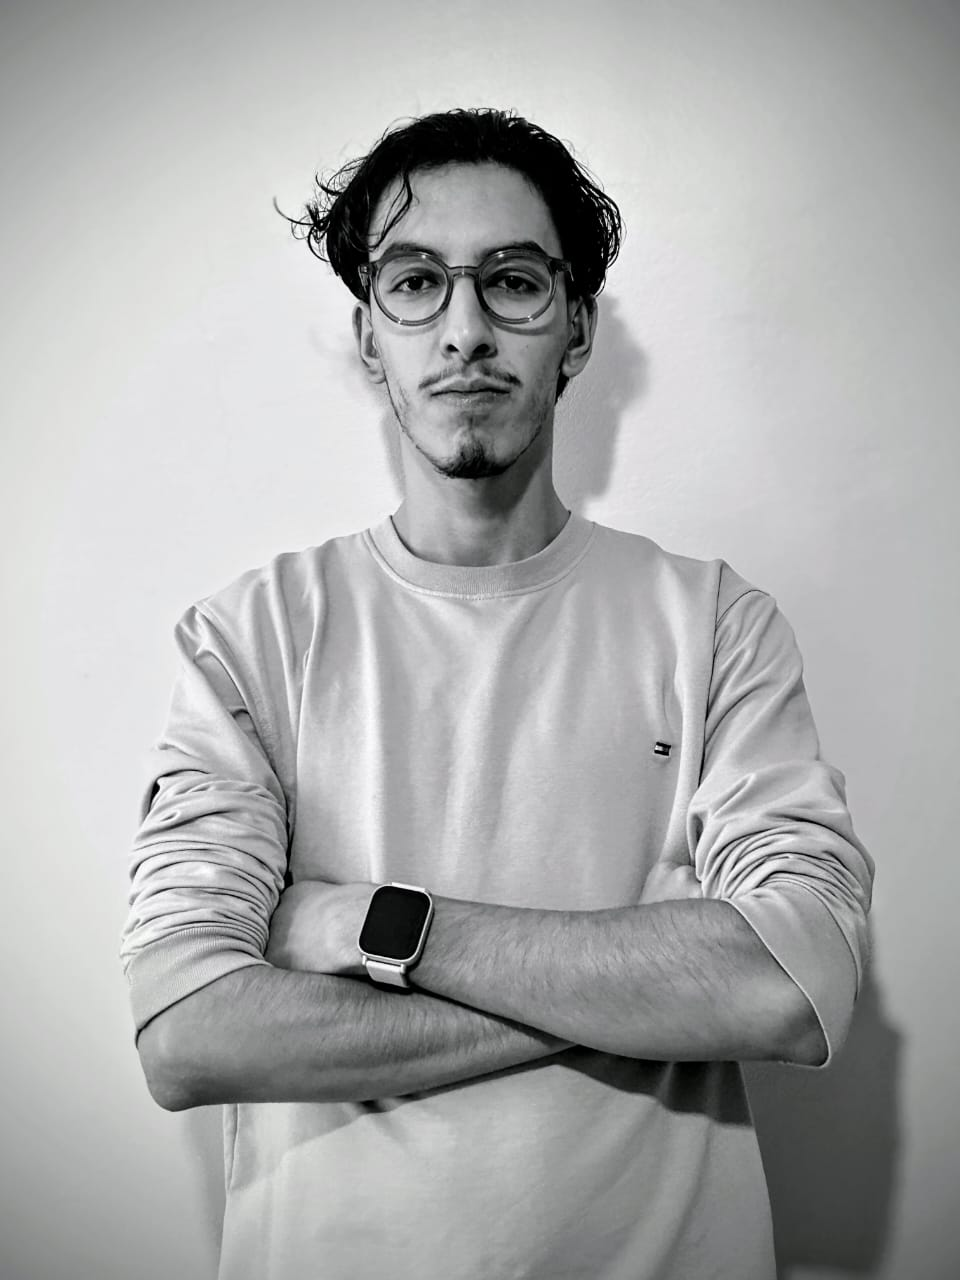
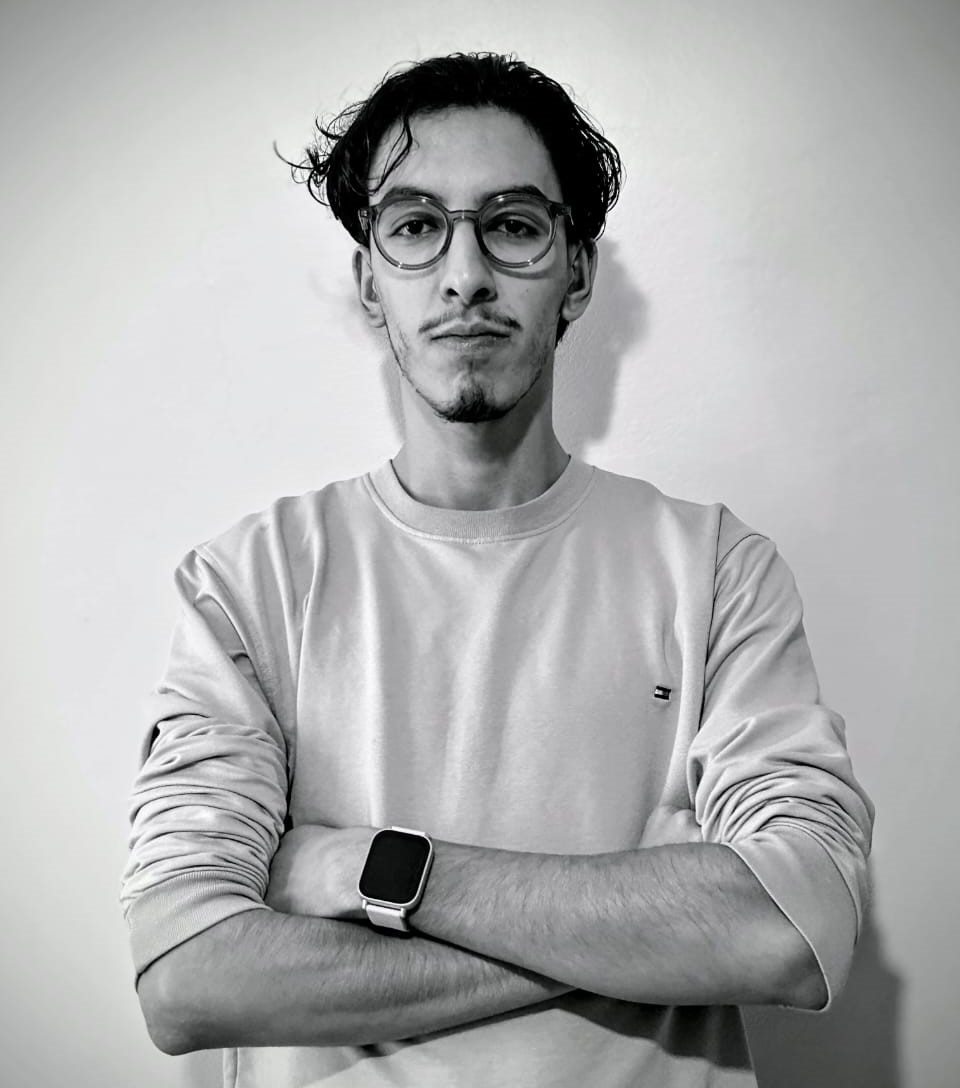
done

diff --git a/src/components/parallax/parallaxItem.jsx b/src/components/parallax/parallaxItem.jsx
@@ -10,12 +10,12 @@ function ParallaxItem() {
         offset: ["start center", "end start"]
     });
 
-    const firstBoxY = useTransform(scrollYProgress,[0,0.3],["400px","0px"]);
-    const firstBoxOpacity = useTransform(scrollYProgress,[0,0.3],[0,1]);
+    const firstBoxY = useTransform(scrollYProgress,[0,0.3],["500px","0px"]);
+    const firstBoxOpacity = useTransform(scrollYProgress,[0,0.5],[0,1]);
     const circleClipPath = useTransform(scrollYProgress,[0,0.3],["",
     "circle(200px at 50% 0)"])
 
-    const secondBoxY = useTransform(scrollYProgress,[0.3,0.6],["400px","0px"]);
+    const secondBoxY = useTransform(scrollYProgress,[0.3,0.6],["500px","0px"]);
     const secondBoxOpacity = useTransform(scrollYProgress,[0.3,0.6],[0,1]);
 
     const thirdBoxY = useTransform(scrollYProgress,[0.6,0.8],["400px","0px"]);
@@ -23,34 +23,45 @@ function ParallaxItem() {
 
     return (
         <>
-            <section ref={ref} style={{ minHeight: "300vh" }} className="darkSec bg-black text-white " >
-                <h1 className={`sectionTitle text-[2rem] text-center font-[900]`} >Skills</h1>
-                <div className="parallaxContainer min-h-[300vh] relative flex items-center justify-around">
-                    <div className="sticky top-[10%] h-[100vh] w-[500px] h-[500px] bg-white">
-
+            <section ref={ref} style={{ minHeight: "300vh" }} className="darkSec bg-black  max-md:overflow-y-hidden" >
+                <h1 className={`sectionTitle text-[2rem] text-center font-[900] text-white`} >What Else ?</h1>
+                <div className="parallaxContainer min-h-[300vh] relative flex items-center justify-around max-md:flex-col">
+                    <div className="sticky top-[10%]  h-[100vh] max-md:relative ">
+                        <motion.div
+                        className="aboutMeImgContainer m-4 "
+                        >
+                        <div className="aboutDummyNav flex items-center px-3">
+                            <div className=" flex items-center gap-2">
+                                <div className="h-[15px] w-[15px] bg-[#fc0000]  rounded-full"></div>
+                                <div className="h-[15px] w-[15px] bg-[#ffaa00]  rounded-full"></div>
+                                <div className="h-[15px] w-[15px] bg-[#26ff00]  rounded-full"></div>
+                            </div>
+                        </div>
+                        <img src="myPortfolio/images/myImage2.jpg" className="w-[400px]" alt="" />
+                        <div className="bottomNavBorder"></div>
+                    </motion.div>
                     </div>
 
-                    <div className="content flex flex-col gap-[20vh] ">
+                    <div className="content flex flex-col gap-[30vh] max-md:gap-[20vh] ">
                         <motion.div 
                             style={{y:firstBoxY,opacity:firstBoxOpacity}} 
-                            initial={{clipPath: 'circle(0px at 100% 100%)'}}
-                            whileInView={{clipPath: 'circle(600px at 100% 100%)'}}
-                            transition={{type:"spring",stiffness:15}}
-                            className="translate-y-[300px] h-[240px] w-[400px] p-4 bg-white text-black">
-                            <h1 className="text-[2rem]">Hello world</h1>
-                            <p>Lorem ipsum dolor sit amet consectetur adipisicing elit. Ipsa nam eos minima incidunt sapiente possimus, ullam quasi quo placeat dignissimos?</p>
-                            <LightButton buttonText={"Click"} />
+                            className="translate-y-[300px] h-[240px] w-[600px] p-4 max-md:w-[90%] text-center max-md:mx-auto max-md:translate-y-[0px]">
+                            <h1 className="text-[3rem] font-[900] text-white max-md:text-[2rem]">How I discovered this field ?</h1>
+                            <p className="text-[#9b9b9b]">My story with this field started when I was 15 years old, the first two things I discovered were HTML and CSS, I was impressed with these two Web design languages, I've built the ugliest websites then, the funny thing about that, is that none of these first websites were responsive, just a little zoom will ruin everything. but with time I learnt how to make responsive static websites.</p>
                         </motion.div>
-                        <motion.div style={{y:secondBoxY,opacity:secondBoxOpacity}} className="translate-y-[300px] h-[240px] w-[400px] p-4 ">
-                            <h1 className="text-[2rem]">Hello world</h1>
-                            <p>Lorem ipsum dolor sit amet consectetur adipisicing elit. Ipsa nam eos minima incidunt sapiente possimus, ullam quasi quo placeat dignissimos?</p>
-                            <LightButton buttonText={"Click"} />
+                        <motion.div 
+                            style={{y:secondBoxY,opacity:secondBoxOpacity}} 
+                            className="translate-y-[300px] h-[240px] w-[600px] p-4 max-md:w-[90%] text-center max-md:mx-auto max-md:translate-y-[0px]">
+                            <h1 className="text-[3rem] font-[900] text-white max-md:text-[2rem]">And then ?</h1>
+                            <p className="text-[#9b9b9b]">After I've got my bachelor degree, I accomplished my studies in <strong>ISTA-Specialized Institute of Applied Technology</strong>, I took me 2 years to take my specialized technician diploma. During this 2 years, I've learnt lot of things, lot of programming languages and technologies such as <strong>React Js</strong> and <strong>Laravel</strong> etc... </p>
                         </motion.div>
-                        <motion.div style={{y:thirdBoxY,opacity:thirdBoxOpacity}} className="translate-y-[300px] h-[240px] w-[400px] p-4 ">
-                            <h1 className="text-[2rem]">Hello world</h1>
-                            <p>Lorem ipsum dolor sit amet consectetur adipisicing elit. Ipsa nam eos minima incidunt sapiente possimus, ullam quasi quo placeat dignissimos?</p>
-                            <LightButton buttonText={"Click"} />
+                        <motion.div 
+                            style={{y:thirdBoxY,opacity:thirdBoxOpacity}} 
+                            className="translate-y-[300px] h-[240px] w-[600px] p-4 max-md:w-[90%] text-center max-md:mx-auto max-md:translate-y-[0px]">
+                            <h1 className="text-[3rem] font-[900] text-white max-md:text-[2rem]">Why I had choosen this field ?</h1>
+                            <p className="text-[#9b9b9b]">Simply the answer is that I enjoy learning new things about tech to build create digital projects to solve real life problems, furthermore I have the capability to solve problems, fix code and make even much more reliable, I'm in love with this field because it's interesting for me.</p>
                         </motion.div>
+                        
                     </div>
                 </div>
             </section>

diff --git a/src/components/aboutMe/aboutMe.jsx b/src/components/aboutMe/aboutMe.jsx
@@ -15,7 +15,7 @@ function AboutMe() {
     });
     const contentY = useTransform(scrollYProgress, [0, 0.4], ["200px", "0px"]);
     const imgBlocX = useTransform(scrollYProgress, [0, 0.3], ["-200px", "0px"]);
-    const circleClipPath = useTransform(scrollYProgress,[0,0.6],["circle(0% at 50% 0)",
+    const circleClipPath = useTransform(scrollYProgress,[0,0.7],["circle(0% at 50% 0)",
     "circle(200% at 50% 0)"])
     const opacity = useTransform(scrollYProgress,[0,0.4],[0,1]);
 

diff --git a/src/components/portfolio/portfolio.jsx b/src/components/portfolio/portfolio.jsx
@@ -106,7 +106,7 @@ function Portfolio() {
                 <AboutMe />
                 <ParallaxItem/>
                 {/* <Skills /> */}
-                <section className="bg-black" ></section>
+                <section className="bg-white" ></section>
                 
 
                 <motion.div
